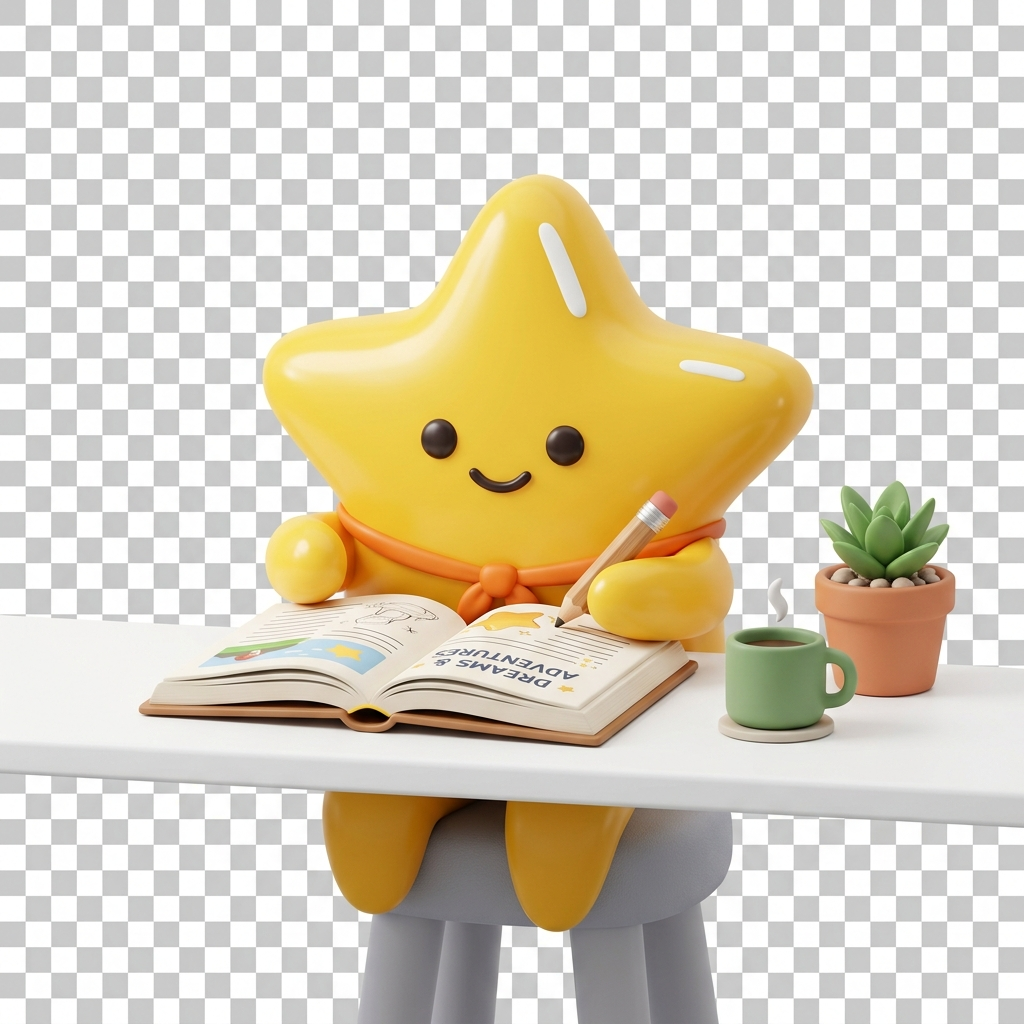
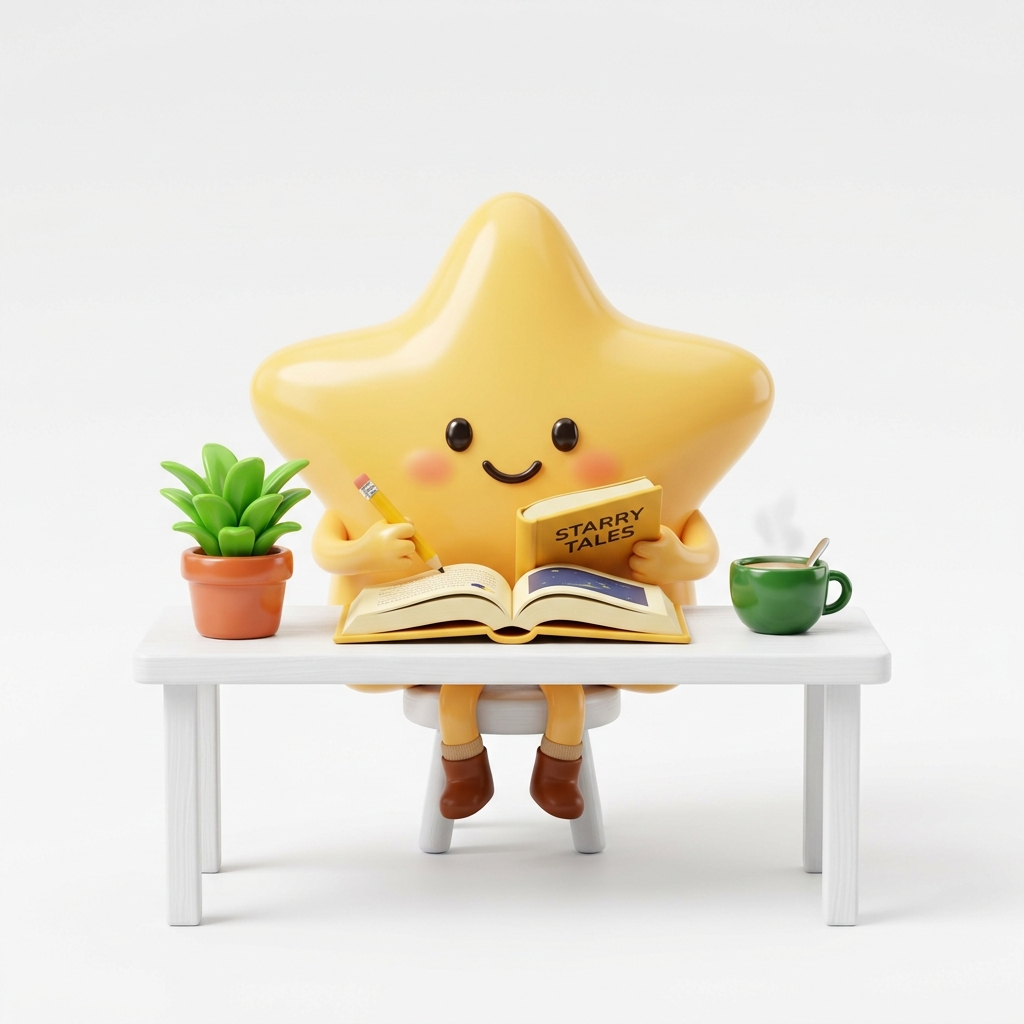
design: remove 'For Students'/'For Teachers' from navbar, fix checkered mascot background, and expand metrics card label room

diff --git a/frontend/src/pages/Home.jsx b/frontend/src/pages/Home.jsx
@@ -110,7 +110,12 @@ function Home({ onStart }) {
                 {/* MESSAGES */}
                 <div className="mockup-messages">
                   <div className="mock-message user">
-                    <div className="mock-avatar">U</div>
+                    <div className="mock-avatar">
+                      <svg viewBox="0 0 24 24" fill="none" stroke="currentColor" strokeWidth="2.5" strokeLinecap="round" strokeLinejoin="round" style={{ width: "12px", height: "12px" }}>
+                        <path d="M20 21v-2a4 4 0 0 0-4-4H8a4 4 0 0 0-4 4v2" />
+                        <circle cx="12" cy="7" r="4" />
+                      </svg>
+                    </div>
                     <div className="mock-bubble">
                       Photosynthesis is the process by which plants use sunlight,
                       carbon dioxide and water to make their own food.
@@ -133,7 +138,12 @@ function Home({ onStart }) {
                   </div>
 
                   <div className="mock-message user">
-                    <div className="mock-avatar">U</div>
+                    <div className="mock-avatar">
+                      <svg viewBox="0 0 24 24" fill="none" stroke="currentColor" strokeWidth="2.5" strokeLinecap="round" strokeLinejoin="round" style={{ width: "12px", height: "12px" }}>
+                        <path d="M20 21v-2a4 4 0 0 0-4-4H8a4 4 0 0 0-4 4v2" />
+                        <circle cx="12" cy="7" r="4" />
+                      </svg>
+                    </div>
                     <div className="mock-bubble">
                       The sunlight gives energy to the plant so it can produce
                       glucose.
@@ -173,36 +183,31 @@ function Home({ onStart }) {
 
               {/* STATIC MINI RADAR CHART SVG */}
               <div className="mockup-radar-svg">
-                <svg viewBox="0 0 120 120" width="100%" height="100%">
-                  {/* Grid Lines */}
-                  <circle cx="60" cy="60" r="40" fill="none" stroke="#E2E8F0" strokeWidth="1" />
-                  <circle cx="60" cy="60" r="25" fill="none" stroke="#E2E8F0" strokeWidth="1" />
-                  <circle cx="60" cy="60" r="10" fill="none" stroke="#E2E8F0" strokeWidth="1" />
+                <svg viewBox="0 0 170 130" width="100%" height="100%">
+                  {/* Grid Circles */}
+                  <circle cx="85" cy="65" r="40" fill="none" stroke="#E2E8F0" strokeWidth="1" />
+                  <circle cx="85" cy="65" r="25" fill="none" stroke="#E2E8F0" strokeWidth="1" />
+                  <circle cx="85" cy="65" r="10" fill="none" stroke="#E2E8F0" strokeWidth="1" />
                   {/* Axis lines */}
-                  <line x1="60" y1="20" x2="60" y2="100" stroke="#E2E8F0" strokeWidth="1" />
-                  <line x1="20" y1="60" x2="100" y2="60" stroke="#E2E8F0" strokeWidth="1" />
+                  <line x1="85" y1="25" x2="85" y2="105" stroke="#E2E8F0" strokeWidth="1" />
+                  <line x1="45" y1="65" x2="125" y2="65" stroke="#E2E8F0" strokeWidth="1" />
                   {/* Labels */}
-                  <text x="60" y="15" textAnchor="middle" fontSize="6" fontWeight="bold" fill="#64748B">Clarity</text>
-                  <text x="105" y="62" fontSize="6" fontWeight="bold" fill="#64748B">Completeness</text>
-                  <text x="60" y="110" textAnchor="middle" fontSize="6" fontWeight="bold" fill="#64748B">Accuracy</text>
-                  <text x="5" y="62" fontSize="6" fontWeight="bold" fill="#64748B">Depth</text>
-                  {/* Score Values mapping: 
-                      Clarity: 7.0 -> cx=60, cy=32
-                      Completeness: 6.0 -> cx=84, cy=60
-                      Accuracy: 8.0 -> cx=60, cy=92
-                      Depth: 6.0 -> cx=36, cy=60
-                  */}
+                  <text x="85" y="18" textAnchor="middle" fontSize="7" fontWeight="700" fill="#64748B">Clarity</text>
+                  <text x="130" y="67" textAnchor="start" fontSize="7" fontWeight="700" fill="#64748B">Completeness</text>
+                  <text x="85" y="118" textAnchor="middle" fontSize="7" fontWeight="700" fill="#64748B">Accuracy</text>
+                  <text x="40" y="67" textAnchor="end" fontSize="7" fontWeight="700" fill="#64748B">Depth</text>
+                  {/* Blue Polygon */}
                   <polygon
-                    points="60,32 84,60 60,92 36,60"
-                    fill="rgba(59, 130, 246, 0.2)"
+                    points="85,37 109,65 85,97 61,65"
+                    fill="rgba(59, 130, 246, 0.15)"
                     stroke="#3B82F6"
                     strokeWidth="1.5"
                   />
                   {/* Score Text labels */}
-                  <text x="60" y="27" textAnchor="middle" fontSize="6" fill="#0F172A" fontWeight="bold">7.0</text>
-                  <text x="92" y="58" fontSize="6" fill="#0F172A" fontWeight="bold">6.0</text>
-                  <text x="60" y="87" textAnchor="middle" fontSize="6" fill="#0F172A" fontWeight="bold">8.0</text>
-                  <text x="24" y="58" fontSize="6" fill="#0F172A" fontWeight="bold">6.0</text>
+                  <text x="85" y="32" textAnchor="middle" fontSize="6.5" fill="#0F172A" fontWeight="bold">7.0</text>
+                  <text x="114" y="61" textAnchor="middle" fontSize="6.5" fill="#0F172A" fontWeight="bold">6.0</text>
+                  <text x="85" y="93" textAnchor="middle" fontSize="6.5" fill="#0F172A" fontWeight="bold">8.0</text>
+                  <text x="56" y="61" textAnchor="middle" fontSize="6.5" fill="#0F172A" fontWeight="bold">6.0</text>
                 </svg>
               </div>
             </div>

diff --git a/frontend/src/App.css b/frontend/src/App.css
@@ -555,6 +555,24 @@ h1, h2, h3, h4, h5 {
   cursor: pointer;
   color: #047857;
   outline: none;
+  list-style: none;
+  display: flex;
+  align-items: center;
+}
+
+.mock-why summary::-webkit-details-marker {
+  display: none;
+}
+
+.mock-why summary::before {
+  content: "▶ ";
+  font-size: 8px;
+  margin-right: 6px;
+  color: #10B981;
+}
+
+.mock-why[open] summary::before {
+  content: "▼ ";
 }
 
 .mock-why p {
@@ -609,14 +627,14 @@ h1, h2, h3, h4, h5 {
 /* OVERLAPPING METRICS */
 .mockup-metrics-card {
   position: absolute;
-  top: 40px;
-  right: 0;
-  width: 200px;
+  top: 30px;
+  right: -30px;
+  width: 230px;
   background: #FFFFFF;
   border: 1px solid #E2E8F0;
   border-radius: 16px;
-  padding: 16px;
-  box-shadow: 0 15px 35px rgba(15, 23, 42, 0.1);
+  padding: 18px;
+  box-shadow: 0 15px 35px rgba(15, 23, 42, 0.10);
   z-index: 10;
   text-align: center;
 }
@@ -649,19 +667,19 @@ h1, h2, h3, h4, h5 {
 .overall-label {
   font-size: 10px;
   color: #64748B;
-  margin: 2px 0 12px;
+  margin: 2px 0 8px;
 }
 
 .mockup-radar-svg {
   width: 100%;
-  height: 120px;
+  height: 130px;
 }
 
 /* MASCOT */
 .mockup-mascot-wrapper {
   position: absolute;
-  bottom: -40px;
-  right: -20px;
+  bottom: -35px;
+  right: -15px;
   width: 140px;
   z-index: 15;
 }

diff --git a/frontend/src/components/Navbar.jsx b/frontend/src/components/Navbar.jsx
@@ -27,8 +27,6 @@ function Navbar({ onHome, showBack = false, onScrollToHowItWorks, onScrollToFeat
             <button className="nav-link-btn" onClick={onScrollToFeatures}>
               Features
             </button>
-            <button className="nav-link-btn">For Students</button>
-            <button className="nav-link-btn">For Teachers</button>
           </nav>
         )}
 
